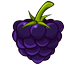
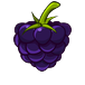
feat: update fruit assets, adjust fruit data attributes, and add launch configuration

diff --git a/src/data/FruitHulls.ts b/src/data/FruitHulls.ts
@@ -9,16 +9,16 @@
  * (poly-decomp est installé et câblé dans main.ts).
  */
 export const FRUIT_HULLS: Record<number, readonly [number, number][]> = {
-  1: [[-18.9, -2.2], [-17.21, -7.67], [-13.04, -11.65], [-7.7, -13.88], [-2.1, -15.47], [3.66, -16.35], [9.4, -15.73], [14.45, -12.9], [17.94, -8.29], [18.57, -2.51], [18.03, 3.29], [16.47, 8.84], [13.08, 13.52], [8.31, 16.75], [2.85, 18.79], [-2.84, 19.05], [-8.3, 17.15], [-12.9, 13.6], [-16.37, 8.95], [-18.65, 3.62]],
-  2: [[-25.75, -0.25], [-25.55, -8.06], [-23.68, -15.41], [-16.58, -18.11], [-8.82, -19.03], [-1.02, -19.11], [6.79, -18.95], [14.6, -18.77], [21.95, -16.33], [25.18, -10.11], [24.32, -2.34], [21.85, 4.98], [18.0, 11.78], [13.43, 18.09], [7.24, 22.72], [0.18, 25.76], [-6.94, 22.86], [-13.74, 19.02], [-19.73, 14.15], [-22.84, 7.0]],
-  3: [[-24.71, 2.71], [-24.37, -6.36], [-22.79, -15.27], [-18.67, -23.29], [-13.18, -30.52], [-6.32, -36.46], [2.38, -37.63], [10.37, -33.58], [17.27, -27.75], [21.72, -19.85], [24.84, -11.35], [24.7, -2.27], [23.38, 6.63], [19.08, 14.59], [13.26, 21.48], [6.01, 26.95], [-2.18, 29.4], [-9.76, 24.42], [-16.5, 18.4], [-22.17, 11.38]],
-  4: [[-31.29, 4.29], [-29.48, -5.57], [-25.61, -14.82], [-19.91, -23.11], [-13.14, -30.53], [-4.46, -34.92], [5.56, -34.21], [13.84, -28.67], [20.07, -20.77], [25.84, -12.53], [30.23, -3.51], [30.53, 6.48], [27.9, 16.17], [21.2, 23.57], [13.16, 29.55], [3.53, 32.04], [-6.53, 31.87], [-15.84, 28.25], [-23.76, 22.09], [-29.81, 14.08]],
+  1: [[-21.48, -2.5], [-19.56, -8.72], [-14.82, -13.24], [-8.75, -15.77], [-2.39, -17.58], [4.16, -18.58], [10.68, -17.88], [16.42, -14.66], [20.39, -9.42], [21.1, -2.85], [20.49, 3.74], [18.72, 10.05], [14.86, 15.36], [9.44, 19.03], [3.24, 21.35], [-3.23, 21.65], [-9.43, 19.49], [-14.66, 15.45], [-18.6, 10.17], [-21.19, 4.11]],
+  2: [[-28.72, -0.28], [-28.5, -8.99], [-26.41, -17.19], [-18.49, -20.2], [-9.84, -21.23], [-1.14, -21.32], [7.57, -21.14], [16.28, -20.94], [24.48, -18.21], [28.09, -11.28], [27.13, -2.61], [24.37, 5.55], [20.08, 13.14], [14.98, 20.18], [8.08, 25.34], [0.2, 28.73], [-7.74, 25.5], [-15.33, 21.21], [-22.01, 15.78], [-25.48, 7.81]],
+  3: [[-27.1, 2.97], [-26.73, -6.98], [-25.0, -16.75], [-20.48, -25.54], [-14.46, -33.47], [-6.93, -39.99], [2.61, -41.27], [11.37, -36.83], [18.94, -30.44], [23.82, -21.77], [27.24, -12.45], [27.09, -2.49], [25.64, 7.27], [20.93, 16.0], [14.54, 23.56], [6.59, 29.56], [-2.39, 32.25], [-10.7, 26.78], [-18.1, 20.18], [-24.32, 12.48]],
+  4: [[-33.83, 4.64], [-31.87, -6.02], [-27.69, -16.02], [-21.52, -24.98], [-14.21, -33.01], [-4.82, -37.75], [6.01, -36.98], [14.96, -30.99], [21.7, -22.45], [27.94, -13.55], [32.68, -3.79], [33.01, 7.01], [30.16, 17.48], [22.92, 25.48], [14.23, 31.95], [3.82, 34.64], [-7.06, 34.45], [-17.12, 30.54], [-25.69, 23.88], [-32.23, 15.22]],
   5: [[-43.54, 6.1], [-42.17, -7.45], [-38.26, -20.45], [-30.76, -31.71], [-19.83, -39.65], [-7.17, -44.47], [6.31, -46.1], [19.47, -42.95], [30.64, -35.19], [38.94, -24.55], [40.76, -11.15], [40.92, 2.47], [36.78, 15.3], [30.38, 27.32], [20.27, 36.43], [7.36, 40.38], [-6.18, 40.16], [-19.33, 36.61], [-30.61, 29.19], [-39.5, 18.95]],
   6: [[-46.7, 6.1], [-45.96, -6.85], [-40.43, -18.59], [-32.16, -28.58], [-20.97, -35.04], [-8.18, -36.7], [4.72, -35.83], [16.97, -31.62], [27.54, -24.32], [34.72, -13.65], [36.48, -0.86], [35.67, 12.1], [30.84, 24.08], [22.3, 33.77], [11.25, 40.51], [-1.61, 42.27], [-14.6, 41.93], [-26.67, 37.52], [-36.77, 29.43], [-43.93, 18.69]],
   7: [[-54.3, -11.7], [-49.38, -27.78], [-40.34, -41.88], [-26.93, -51.57], [-10.25, -54.59], [6.6, -55.75], [23.1, -51.99], [37.31, -43.43], [48.61, -30.9], [54.99, -15.49], [53.29, 1.36], [46.41, 16.81], [37.43, 31.14], [25.04, 42.48], [9.91, 49.69], [-6.92, 49.5], [-23.11, 44.74], [-36.48, 34.47], [-46.26, 20.92], [-52.16, 5.11]],
   8: [[-49.0, -6.2], [-46.77, -22.27], [-39.36, -36.58], [-26.92, -47.03], [-11.32, -51.32], [4.95, -50.89], [20.83, -47.54], [34.02, -38.17], [40.53, -23.25], [42.12, -7.15], [39.22, 8.74], [33.54, 24.03], [27.81, 39.31], [19.99, 53.51], [5.67, 60.62], [-10.5, 60.56], [-24.07, 51.67], [-34.84, 39.58], [-42.88, 25.39], [-48.26, 10.05]],
   9: [[-65.25, -16.38], [-59.89, -34.78], [-45.95, -47.82], [-27.03, -50.85], [-7.62, -50.78], [31.19, -50.64], [49.57, -45.77], [61.18, -30.49], [64.97, -11.59], [62.28, 7.49], [54.63, 25.29], [41.98, 39.99], [26.08, 50.77], [7.14, 54.02], [-12.26, 54.36], [-30.8, 48.95], [-45.65, 36.55], [-57.24, 20.99], [-64.14, 2.91]],
   10: [[-8.13, -67.75], [-8.13, -64.0], [-7.88, -60.25], [-7.13, -56.25], [-5.13, -53.5], [-4.63, -49.5], [-4.38, -44.5], [-6.38, -40.25], [-8.38, -36.25], [-9.13, -33.0], [-10.63, -29.75], [-12.38, -26.75], [-15.63, -23.75], [-19.38, -20.0], [-23.63, -17.0], [-27.38, -14.25], [-33.13, -13.0], [-39.63, -12.0], [-45.63, -9.75], [-51.13, -8.75], [-56.63, -8.5], [-61.38, -8.5], [-64.63, -8.0], [-67.13, -7.25], [-68.13, -5.0], [-67.88, -1.75], [-63.38, 0.25], [-60.88, 1.0], [-58.63, 2.75], [-57.63, 4.25], [-57.88, 6.0], [-60.13, 8.25], [-62.38, 11.5], [-62.38, 14.0], [-61.38, 17.25], [-58.13, 18.25], [-52.38, 19.5], [-49.13, 21.5], [-44.88, 24.25], [-42.63, 26.0], [-45.88, 27.5], [-47.38, 30.75], [-47.38, 35.25], [-44.63, 38.75], [-40.38, 39.25], [-35.88, 39.75], [-34.13, 40.75], [-33.38, 43.0], [-33.63, 47.0], [-32.38, 49.25], [-29.38, 52.5], [-24.13, 52.5], [-18.88, 52.25], [-18.13, 55.75], [-18.63, 59.0], [-16.88, 61.5], [-14.38, 64.75], [-11.88, 64.75], [-5.63, 63.5], [-1.13, 62.25], [1.38, 62.25], [5.13, 62.0], [7.38, 62.5], [6.63, 65.0], [6.38, 68.25], [6.88, 71.0], [9.38, 72.75], [12.88, 73.75], [17.38, 72.75], [20.88, 69.0], [27.13, 67.25], [32.38, 64.25], [36.13, 61.0], [41.63, 57.0], [45.88, 52.0], [50.13, 46.25], [53.13, 40.25], [57.88, 34.0], [59.88, 27.5], [61.63, 22.5], [63.88, 16.5], [66.38, 8.25], [66.38, 2.75], [68.13, -5.5], [67.88, -12.75], [65.88, -20.25], [64.63, -26.75], [62.13, -32.5], [59.63, -38.5], [56.63, -43.25], [52.63, -48.25], [48.38, -53.0], [44.13, -54.75], [38.88, -54.75], [33.38, -55.0], [29.88, -55.25], [27.13, -57.25], [24.63, -59.75], [21.63, -62.5], [20.88, -67.0], [18.13, -70.5], [14.38, -72.25], [10.38, -73.5], [7.63, -73.75], [2.63, -73.5], [-1.38, -72.25], [-4.63, -70.5]],
-  11: [[-71.95, 2.59], [-69.13, -21.73], [-59.23, -43.88], [-43.65, -62.63], [-23.33, -76.11], [0.75, -79.83], [24.74, -75.45], [45.8, -63.09], [63.13, -45.86], [75.07, -24.64], [78.41, -0.57], [74.43, 23.5], [65.09, 45.92], [48.9, 64.18], [27.77, 76.38], [3.92, 80.28], [-20.16, 76.95], [-42.03, 66.02], [-59.09, 48.62], [-70.06, 27.01]],
-  12: [[-86.54, 3.46], [-83.61, -21.23], [-71.17, -42.87], [-52.47, -59.32], [-29.29, -68.34], [-4.61, -71.54], [20.07, -68.0], [43.35, -59.01], [64.05, -44.98], [79.78, -26.07], [86.39, -2.07], [83.16, 22.52], [70.47, 43.84], [49.86, 57.78], [27.13, 68.16], [2.45, 71.83], [-22.52, 70.27], [-45.75, 61.15], [-66.85, 47.8], [-81.41, 27.7]],
+  11: [[-67.51, 2.43], [-64.86, -20.39], [-55.57, -41.17], [-40.96, -58.76], [-21.89, -71.41], [0.7, -74.9], [23.21, -70.79], [42.97, -59.2], [59.23, -43.03], [70.44, -23.12], [73.57, -0.53], [69.84, 22.05], [61.07, 43.09], [45.88, 60.22], [26.06, 71.67], [3.68, 75.32], [-18.92, 72.2], [-39.44, 61.94], [-55.44, 45.62], [-65.74, 25.34]],
+  12: [[-78.85, 3.15], [-76.18, -19.34], [-64.84, -39.06], [-47.81, -54.05], [-26.69, -62.27], [-4.2, -65.18], [18.29, -61.96], [39.5, -53.76], [58.36, -40.98], [72.69, -23.75], [78.71, -1.89], [75.77, 20.52], [64.21, 39.94], [45.43, 52.64], [24.72, 62.1], [2.23, 65.45], [-20.52, 64.02], [-41.68, 55.71], [-60.91, 43.55], [-74.17, 25.24]],
 };

diff --git a/src/data/FruitData.ts b/src/data/FruitData.ts
@@ -9,21 +9,21 @@ import { FruitDefinition } from '../types/GameTypes';
  * le système de fusion, le rendu et le score sont génériques.
  */
 export const FRUITS: FruitDefinition[] = [
-  { id: 1, name: 'Jujube', radius: 22, color: 0xc02000, colorDark: 0x801500, score: 10, shape: 'circle', spawnWeight: 30 },
-  { id: 2, name: 'Mûre', radius: 26, color: 0x2d1b4e, colorDark: 0x1c1132, score: 20, shape: 'circle', spawnWeight: 24 },
-  { id: 3, name: 'Citron', radius: 31, color: 0xf0c010, colorDark: 0xa88500, score: 30, shape: 'circle', spawnWeight: 18 },
-  { id: 4, name: 'Goyave', radius: 37, color: 0x90b030, colorDark: 0x60751f, score: 40, shape: 'circle', spawnWeight: 0 },
+  { id: 1, name: 'Jujube', radius: 25, color: 0xc02000, colorDark: 0x801500, score: 10, shape: 'circle', spawnWeight: 30 },
+  { id: 2, name: 'Mûre', radius: 29, color: 0x2d1b4e, colorDark: 0x1c1132, score: 20, shape: 'circle', spawnWeight: 26 },
+  { id: 3, name: 'Citron', radius: 34, color: 0xf0c010, colorDark: 0xa88500, score: 30, shape: 'circle', spawnWeight: 20 },
+  { id: 4, name: 'Goyave', radius: 40, color: 0x90b030, colorDark: 0x60751f, score: 40, shape: 'circle', spawnWeight: 6 },
   { id: 5, name: 'Pêche', radius: 43, color: 0xffb300, colorDark: 0xc98400, score: 50, shape: 'circle', spawnWeight: 0 },
   { id: 6, name: 'Orange', radius: 48, color: 0xe05000, colorDark: 0x963500, score: 65, shape: 'circle', spawnWeight: 0 },
   { id: 7, name: 'Pomme cannelle', radius: 55, color: 0xd0e040, colorDark: 0x93a02c, score: 90, shape: 'circle', spawnWeight: 0 },
   { id: 8, name: 'Mangue', radius: 61, color: 0xf0c040, colorDark: 0xb08920, score: 120, shape: 'circle', spawnWeight: 0 },
   { id: 9, name: 'Pomme', radius: 67, color: 0xd32f2f, colorDark: 0x962020, score: 160, shape: 'circle', spawnWeight: 0 },
   { id: 10, name: 'Banane', radius: 74, color: 0xf5d327, colorDark: 0xb89a0f, score: 220, shape: 'circle', spawnWeight: 0 },
-  { id: 11, name: 'Noix de coco', radius: 81, color: 0x965f1a, colorDark: 0x603c10, score: 320, shape: 'circle', spawnWeight: 0 },
-  { id: 12, name: 'Pastèque', radius: 90, color: 0x2f9e44, colorDark: 0x1e6b2e, score: 500, shape: 'watermelon', spawnWeight: 0 },
+  { id: 11, name: 'Noix de coco', radius: 76, color: 0x965f1a, colorDark: 0x603c10, score: 320, shape: 'circle', spawnWeight: 0 },
+  { id: 12, name: 'Pastèque', radius: 82, color: 0x2f9e44, colorDark: 0x1e6b2e, score: 500, shape: 'watermelon', spawnWeight: 0 },
 ];
 
-/** Fruits pouvant apparaître comme fruit à lancer (tiers 1-3). */
+/** Fruits pouvant apparaître comme fruit à lancer (tiers 1-4). */
 export const SPAWNABLE_TIERS = FRUITS.filter((f) => f.spawnWeight > 0);
 
 /** Score bonus quand deux pastèques fusionnent (elles disparaissent). */

diff --git a/src/managers/SaveManager.ts b/src/managers/SaveManager.ts
@@ -68,10 +68,11 @@ export class SaveManager {
     SaveManager.storage()?.setItem(KEYS.musicEnabled, enabled ? '1' : '0');
   }
 
-  /** Fruit le plus haut déjà débloqué (jamais, persistant). Défaut : 3. */
+  /** Fruit le plus haut déjà débloqué (jamais, persistant). Défaut : 4
+   * (les 4 premiers tiers sont spawnables/visibles dès le début). */
   static getUnlockedTier(): number {
     const v = SaveManager.storage()?.getItem(KEYS.unlockedTier);
-    return v ? parseInt(v, 10) || 3 : 3;
+    return v ? parseInt(v, 10) || 4 : 4;
   }
 
   static setUnlockedTier(tier: number): void {

diff --git a/src/scenes/GameScene.ts b/src/scenes/GameScene.ts
@@ -230,7 +230,7 @@ export class GameScene extends Phaser.Scene {
     // Calebasse peu profonde, large, en bas de l'écran (façon Ball Guys) :
     // on remplit, un fruit déborde → game over. Taille réduite de 20% ×2.
     // Remontée pour laisser la place à la barre d'évolution des fruits en bas.
-    const halfW = Math.min(w * 0.46, 330 * k) * 0.85;
+    const halfW = Math.min(w * 0.46, 330 * k) * 0.78;
     this.containerLeft = this.cx - halfW;
     this.containerRight = this.cx + halfW;
     this.containerBottom = h - 300 * k;
